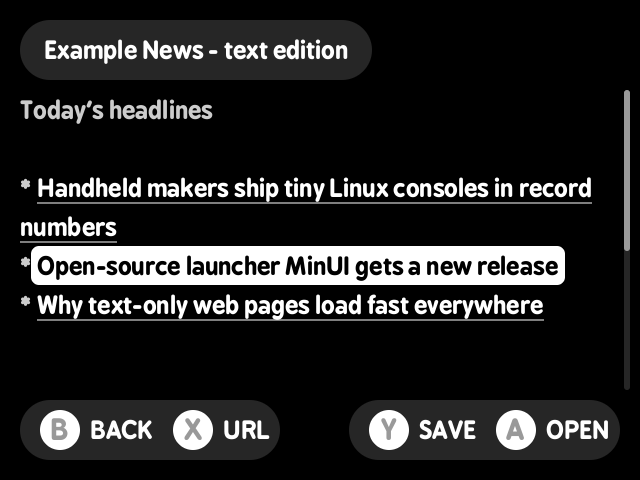
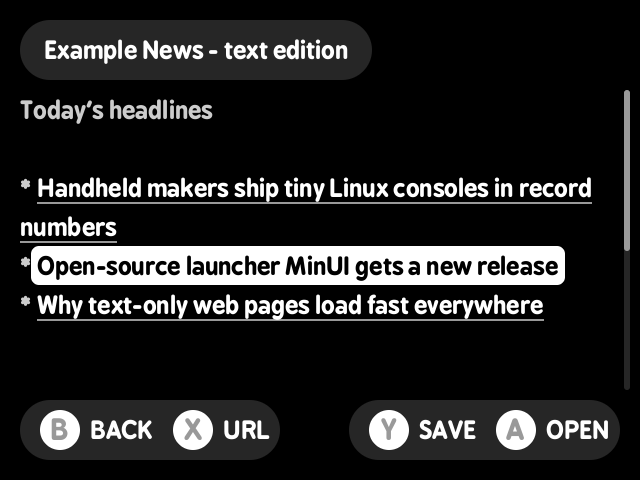
docs: add theme and muos screenshots

Changed region(s): [[0.0625, 0.4062, 0.9062, 0.4375], [0.0625, 0.6562, 0.8438, 0.6875], [0.0312, 0.5, 0.1875, 0.5312]]

diff --git a/CLAUDE.md b/CLAUDE.md
@@ -10,11 +10,11 @@ This file provides guidance to Claude Code (claude.ai/code) when working with co
 - **muOS** on the Anbernic RG35XX-SP (Allwinner H700, aarch64): an app is a folder in `/run/muos/storage/application/<Name>/` with `mux_launch.sh` (sources `/opt/muos/script/var/func.sh`, calls `SETUP_APP "<binary>" ""`; `# HELP/# ICON/# GRID` header lines are read by the frontend) and `mux_launch.ini`; distributed as `<Name>.muxapp`, a zip whose top level is the app folder (muOS's `script/mux/extract.sh` unzips `.muxapp` into its application dir).
 
 Layout:
-- `crates/core` (`pocketkit_core`): device-independent: 640x480 `Canvas` + 8x8 fallback font, `Button` (incl. `Power`, and `Other` for unmapped keys so they count as activity), on-screen `Keyboard`, `ui` (MinUI's look: font via `fontdue`, pills, rows, round button hints, toasts, keyboard; sizes/colours from MinUI's `defines.h`/`api.c` at 2x), `settings` (shared `key=value` file), the `Platform` trait, and `run_with()` (30 fps loop; MENU quits, `App::quit` lets B quit; screen off after the `screen_off` setting or with POWER, first press only wakes).
-- `crates/platform` (`pocketkit_platform`): Cargo features `desktop` (minifb window), `minui`, `muos`; `open()`/`run(title, app)` pick by feature. `fb.rs` (framebuffer writer, optional 180° flip, writes to the panned visible page), `evdev.rs` (key tables per device, ABS_HAT0 D-pad, software key repeat), `minui.rs`/`muos.rs` (device wiring), `minui_settings.rs` (MinUI's shared volume/brightness), `volume.rs` (system volume: MinUI file or PipeWire `wpctl`).
+- `crates/core` (`pocketkit_core`): device-independent: 640x480 `Canvas` + 8x8 fallback font, `Button` (incl. `Power`, and `Other` for unmapped keys so they count as activity), on-screen `Keyboard`, `ui` (font via `fontdue`; pills/rows/button hints/toasts/keyboard with MinUI's sizes from its `defines.h`/`api.c` at 2x; two `Style`s sharing that layout: `MinUI` and `Muos` (header/footer bars, mustard highlight), picked by `POCKETKIT_STYLE`, which muOS launchers set; apps draw their own extras with `ui.pal`), `settings` (shared `key=value` file), the `Platform` trait, and `run_with()` (30 fps loop; MENU quits, `App::quit` lets B quit; screen off after the `screen_off` setting or with POWER, first press only wakes).
+- `crates/platform` (`pocketkit_platform`): Cargo features `desktop` (minifb window), `minui`, `muos`; `open()`/`run(title, app)` pick by feature. `fb.rs` (framebuffer writer, optional 180° flip; with `page_flip` (muOS) it draws into the hidden page of the 640x960 framebuffer and pans to it via `/sys/class/graphics/fb0/pan` to avoid tearing, falling back to the visible page if panning is refused, and restores the start page on drop), `evdev.rs` (key tables per device, ABS_HAT0 D-pad, software key repeat), `minui.rs`/`muos.rs` (device wiring), `minui_settings.rs` (MinUI's shared volume/brightness), `volume.rs` (system volume: MinUI file or PipeWire `wpctl`).
 - `apps/*`, each with `pak/minui/` and, where ported, `pak/muos/` packaging files:
   - `web-browser` (MinUI, muOS): text-mode browser + downloader (HTTPS via rustls/ring).
-  - `music` (MinUI, muOS): retro desktop-player skin (original art in `skin.rs`). On MinUI it's the only **glibc** build (`armv7-unknown-linux-gnueabihf`, Miyoo toolchain) because audio must go through the firmware audioserver (`src/ao_shim.c`); elsewhere `PipeSink` pipes PCM to `pw-play --raw`/`paplay`/`aplay`, skipping players that exit immediately.
+  - `music` (MinUI, muOS): retro desktop-player skin (original art in `skin.rs`), 5 colour themes in `theme.rs` (L2/R2, saved in the state file; a test enforces text contrast). On MinUI it's the only **glibc** build (`armv7-unknown-linux-gnueabihf`, Miyoo toolchain) because audio must go through the firmware audioserver (`src/ao_shim.c`); elsewhere `PipeSink` pipes PCM to `pw-play --raw`/`paplay`/`aplay`, skipping players that exit immediately.
   - `wifi`, `settings` (MinUI only; muOS has its own network/settings menus). Settings manages a marked block in MinUI's boot hook `$USERDATA_PATH/auto.sh` (markers `# >>> minui-paks` / `# <<< minui-paks`, kept for existing installs; backed up once to `auto.sh.before-settings-pak`).
   - `pocket-pet` (MinUI only): still on its own 320x240 renderer and Miyoo backend (`--features device`), not yet on core/platform.
 - `packaging/muos/font/`: Atkinson Hyperlegible Bold + `OFL.txt`, copied into every muOS app as `font.ttf` (muOS has no MinUI font). On MinUI the UI font is MinUI's own `$SDCARD_PATH/.system/res/BPreplayBold-unhinted.otf`, never bundled; desktop previews/tests need `tools/fetch-minui-res.sh` once (downloads it to git-ignored `.minui-res/`), else everything falls back to the bitmap font.

diff --git a/README.md b/README.md
@@ -7,9 +7,17 @@ and downloader, a music player, a Wi-Fi picker, a settings app and a virtual pet
 <img src="docs/screenshots/browser-home.png" width="320" alt="Web Browser home">
 <img src="docs/screenshots/browser-page.png" width="320" alt="Web Browser page">
 <img src="docs/screenshots/music.png" width="320" alt="Music">
+<img src="docs/screenshots/music-sakura.png" width="320" alt="Music, Sakura theme">
 <img src="docs/screenshots/wifi.png" width="320" alt="Wifi">
 <img src="docs/screenshots/settings.png" width="320" alt="Settings">
 <img src="docs/screenshots/pocket-pet.png" width="320" alt="Pocket Pet">
+</p>
+
+On muOS the apps take on a muOS-style look (header and footer bars, mustard highlight):
+
+<p>
+<img src="docs/screenshots/browser-home-muos.png" width="320" alt="Web Browser on muOS">
+<img src="docs/screenshots/browser-page-muos.png" width="320" alt="Web Browser page on muOS">
 </p>
 
 ## Apps and devices
@@ -17,7 +25,7 @@ and downloader, a music player, a Wi-Fi picker, a settings app and a virtual pet
 | App | Miyoo Mini+ (MinUI) | RG35XX-SP (muOS) |
 |---|:---:|:---:|
 | [Web Browser](apps/web-browser) — text pages, links, HTTPS, downloads | ✓ | ✓ |
-| [Music](apps/music) — MP3/FLAC/OGG/WAV/M4A, playlist, spectrum analyzer | ✓ | ✓ |
+| [Music](apps/music) — MP3/FLAC/OGG/WAV/M4A, playlist, spectrum analyzer, 5 themes | ✓ | ✓ |
 | [Wifi](apps/wifi) — pick a network, type the password | ✓ | (muOS has its own) |
 | [Settings](apps/settings) — screen-off time, brightness, Wi-Fi/ADB at startup | ✓ | (muOS has its own) |
 | [Pocket Pet](apps/pocket-pet) — a tiny virtual pet | ✓ | |

diff --git a/apps/music/README.md b/apps/music/README.md
@@ -8,7 +8,12 @@ Plays MP3, FLAC, OGG Vorbis, WAV and AAC/M4A (decoded in pure Rust by Symphonia)
 subfolders included, in path order. Runs on **MinUI** (Miyoo Mini+) and **muOS**
 (RG35XX-SP).
 
-![Music](../../docs/screenshots/music.png)
+![Classic](../../docs/screenshots/music.png)
+![Sakura](../../docs/screenshots/music-sakura.png)
+![Midnight](../../docs/screenshots/music-midnight.png)
+
+Five colour themes, switched with L2 / R2: **Classic**, **Sakura** (pink), **Midnight**
+(dark), **Amber** (warm retro) and **Ocean** (teal), defined in `src/theme.rs`.
 
 | Platform | Music folder | Install |
 |---|---|---|
@@ -27,8 +32,9 @@ subfolders included, in path order. Runs on **MinUI** (Miyoo Mini+) and **muOS**
 | Left / Right | arrows | seek -5 s / +5 s (hold to keep seeking) |
 | X | C | shuffle on / off |
 | Y | V | repeat: off / all / one |
+| L2 / R2 | E / R | previous / next colour theme |
 | SELECT | Tab | jump to the playing track |
-| MENU | Esc | quit (shuffle, repeat and the last track are remembered) |
+| MENU | Esc | quit (shuffle, repeat, theme and the last track are remembered) |
 
 Volume is the system volume (the device's VOL+/- buttons); the slider follows it (MinUI's
 shared settings on the Mini, PipeWire on muOS). The screen turns off after the idle time
